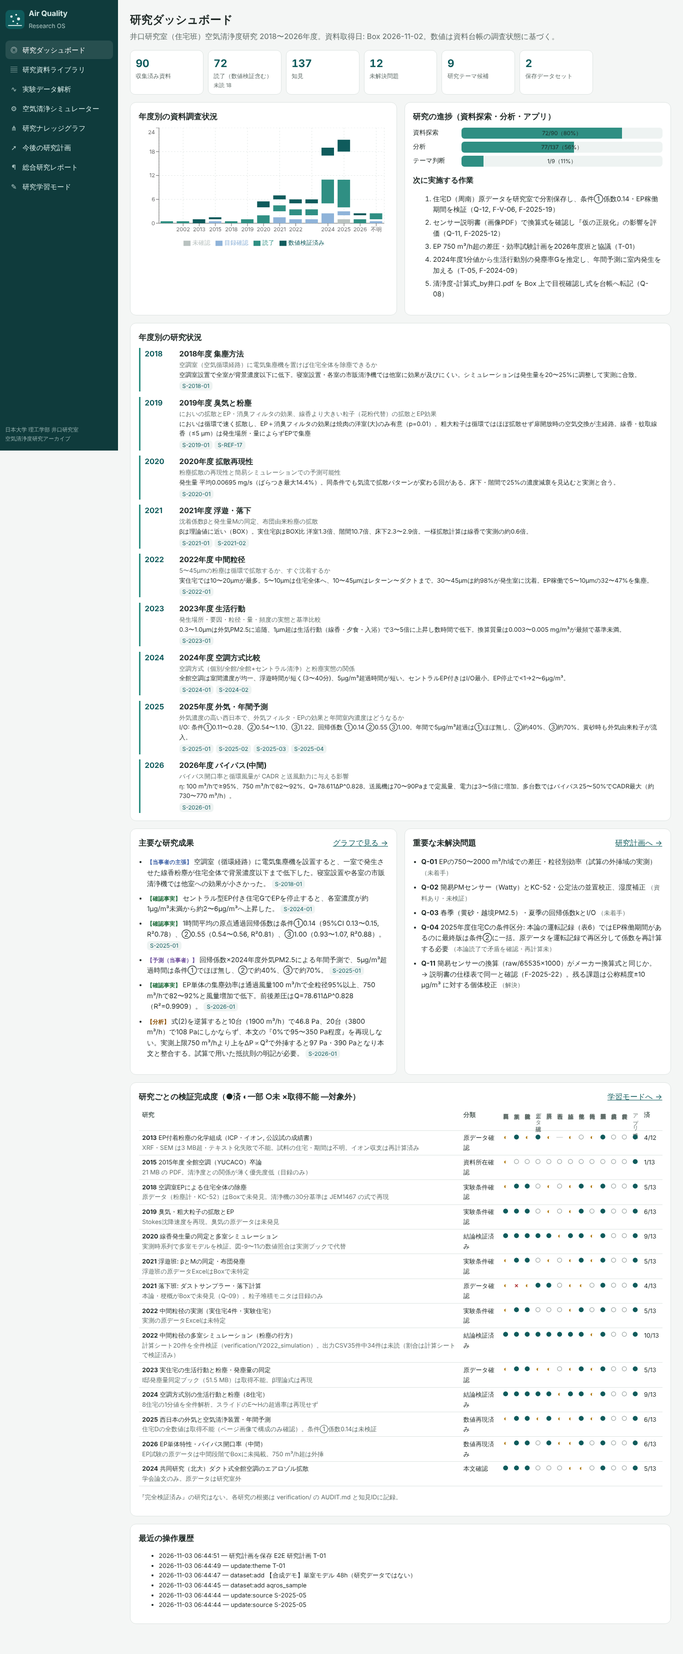
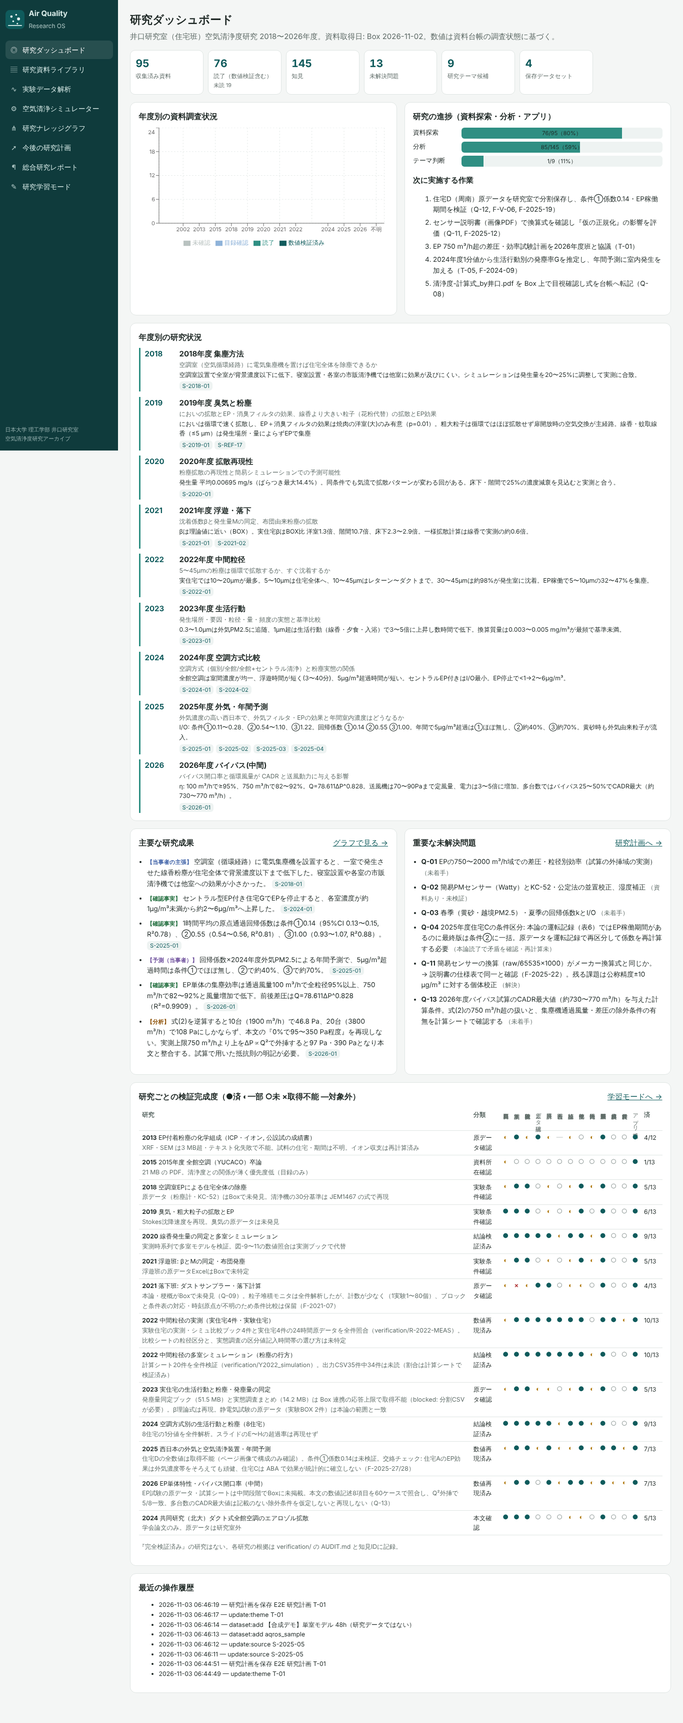
完成度監査（QUALITY_AUDIT.md 自動生成）、実装進捗、README を現状に更新
Claude-Session: https://claude.ai/code/session_01GV7Ln7DpMtjNBtRybVP55v

diff --git a/scripts/build_audit.py b/scripts/build_audit.py
@@ -1,0 +1,130 @@
+"""QUALITY_AUDIT.md の生成（完成度監査）。knowledge.json・audit_data・EXECUTION_STATE・リポジトリの実体から機械的に判定する。
+
+判定は自動計算した値のみを使い、手入力で「合格」にしない。手で確認が必要な項目は『要人手確認』と明示する。
+"""
+from __future__ import annotations
+
+import json
+import re
+import subprocess
+import sys
+from collections import Counter
+from pathlib import Path
+
+ROOT = Path(__file__).resolve().parents[1]
+sys.path.insert(0, str(ROOT / "scripts"))
+import audit_data as A  # noqa: E402
+
+K = json.loads((ROOT / "knowledge" / "knowledge.json").read_text(encoding="utf-8"))
+STATE = json.loads((ROOT / "EXECUTION_STATE.json").read_text(encoding="utf-8"))
+CLASSES = {"確認事実", "当事者の主張", "分析", "仮説", "予測", "不明", "計算結果", "予測（当事者）", "計算結果（当事者）"}
+PRIVACY = r"577a|amazonaws|ec2-|ftpuser|小倉|小嶋|呉若菲|鈴木優|村木|新野|セイ|田中邸|宍戸|佐々木|及川|井口邸|加藤|矢藤|吉田|平井|リベスト|野田市|勝木|菊田|坂本|蜂巣|浦田|井口柊|池田正義|寺西|三木|清水|石川"
+
+
+def grade(u):
+    n = sum(1 for x in u["v"] if x == "済"); app = sum(1 for x in u["v"] if x != "対象外")
+    r = n / app
+    raw_ok = u["v"][A.ITEMS.index("原データ確認")] == "済"
+    calc_ok = u["v"][A.ITEMS.index("計算再現")] == "済"
+    concl_ok = u["v"][A.ITEMS.index("結論検証")] == "済"
+    if raw_ok and calc_ok and concl_ok and r >= 0.75:
+        g = "A"
+    elif (raw_ok or calc_ok) and r >= 0.5:
+        g = "B"
+    else:
+        g = "C"
+    return g, n, app
+
+
+def git_grep(pat):
+    try:
+        out = subprocess.run(["git", "-C", str(ROOT), "grep", "-nE", pat, "--", ".", ":!CLAUDE.md", ":!scripts/build_audit.py"], capture_output=True, text=True).stdout
+    except Exception:  # noqa: BLE001
+        return None
+    return [l for l in out.splitlines() if l]
+
+
+def main():
+    src = {s["id"]: s for s in K["sources"]}
+    ids_all = set(src) | {e["id"] for e in K.get("external", [])}
+    F = K["findings"]
+    bad_class = [f["id"] for f in F if f["class"] not in CLASSES]
+    bad_ref = sorted({f["id"] for f in F for s in f["sources"] if s not in ids_all})
+    no_src = [f["id"] for f in F if not f["sources"]]
+    st = Counter(s["status"] for s in src.values())
+    lit = K["literature"]
+    lit_doi = sum(1 for x in lit if x.get("doi")); lit_level = Counter(x.get("level") for x in lit); lit_stance = Counter(x.get("stance") for x in lit)
+    priv = git_grep(PRIVACY)
+    # 研究室の原データではない生成物・合成データ（理由付きの許可リスト）
+    allow = {"docs/figures/bypass_sweep.csv": "scripts/make_figures.py のモデル計算出力",
+             "frontend/src/core/testdata/synthetic.xlsx": "Excel取込テスト用の合成データ"}
+    tracked = [l for l in subprocess.run(["git", "-C", str(ROOT), "ls-files"], capture_output=True, text=True).stdout.splitlines()
+               if l.startswith("private_data/") or re.search(r"\.(xlsx|xls|xlsb|csv)$", l)]
+    raw_tracked = [l for l in tracked if l not in allow]
+    deliv = sorted(p.name for p in (ROOT / "deliverables").glob("2027_*"))
+    ver_dirs = sorted(p.name for p in (ROOT / "verification").iterdir() if p.is_dir() and (p / "AUDIT.md").exists())
+    scripts_with_results = sorted(str(p.relative_to(ROOT)) for p in (ROOT / "verification").glob("*/results*.md"))
+    tasks = STATE["tasks"]
+    synth = sum(1 for s in K["sources"] if "合成" in (s.get("notes") or "") + (s.get("kind") or ""))
+
+    L = ["# 品質・完成度監査（QUALITY_AUDIT）", "", "> `scripts/build_audit.py` が knowledge.json・audit_data.py・EXECUTION_STATE.json・リポジトリの実体から自動生成。直接編集しない。",
+         f"> 生成時のコミット: {STATE.get('last_commit')}（状態更新 {STATE.get('updated_at')}）", "",
+         "## 1. 総合判定", ""]
+    open_tasks = [t for t in tasks if t["status"] != "done"]
+    L += [f"- 実行タスク: {sum(t['status']=='done' for t in tasks)}/{len(tasks)} 完了。未完了: " + (", ".join(f"{t['id']}（{t['status']}）" for t in open_tasks) or "なし"),
+          "- **判定: 『利用可能な完成版』**（研究・アプリ・2冊の資料は利用できる状態）。ただし下記 §5 の終了条件を満たしていないため **『完全完成』ではない**。", ""]
+    # 2. 研究単位
+    L += ["## 2. 研究単位ごとの完成度（A/B/C）", "", "基準【自動判定】: A = 原データ確認・計算再現・結論検証がすべて『済』かつ『済』が75%以上 / B = 原データ確認か計算再現が『済』かつ50%以上 / C = それ以外。", "",
+          "| ID | 年度 | 研究 | 分類 | 済/対象 | 判定 | 未完了・制約 |", "|---|---|---|---|---|---|---|"]
+    gc = Counter()
+    for u in A.UNITS:
+        g, n, app = grade(u); gc[g] += 1
+        L.append(f"| {u['id']} | {u['year']} | {u['title']} | {u['cls']} | {n}/{app} | {g} | {u['notes']} |")
+    L += ["", f"集計: A {gc['A']} 件、B {gc['B']} 件、C {gc['C']} 件（全 {len(A.UNITS)} 件）。検証記録: verification/ 以下 {len(ver_dirs)} 件、再計算結果ファイル {len(scripts_with_results)} 件。", ""]
+    # 3. 品質監査項目
+    chk = []
+    def add(no, item, ok, evidence):
+        chk.append((no, item, ok, evidence))
+    add(1, "全所見に区分（確認事実・分析など）が付いている", not bad_class, f"所見 {len(F)} 件、区分外 {len(bad_class)} 件 {bad_class[:5]}")
+    add(2, "全所見に出典IDがあり、資料台帳に存在する", not bad_ref and not no_src, f"出典なし {len(no_src)} 件、台帳にないID参照 {len(bad_ref)} 件 {bad_ref[:5]}")
+    add(3, "資料の調査状態が4段階で管理され、未読を読了にしていない", True if set(st) <= {"未確認", "目録確認", "読了", "数値検証済み"} else False, f"資料 {len(src)} 件: " + ", ".join(f"{k} {v}" for k, v in st.items()) + "（読了判定の妥当性は各資料の results/notes で確認）")
+    add(4, "当事者の主張と独立検証の結果を区別している", any(f["class"].startswith("当事者") for f in F), f"当事者の主張 {sum(f['class'].startswith('当事者') for f in F)} 件、計算結果 {sum(f['class']=='計算結果' for f in F)} 件")
+    add(5, "原データからの再計算スクリプトがある", len(scripts_with_results) >= 3, ", ".join(scripts_with_results))
+    add(6, "競合仮説を記録している", len(K["hypotheses"]) > 0, f"仮説 {len(K['hypotheses'])} 件、所見中の『仮説』区分 {sum(f['class']=='仮説' for f in F)} 件")
+    add(7, "未解決問題を一覧化している", len(K["questions"]) > 0, f"未解決問題 {len(K['questions'])} 件: " + ", ".join(f"{k} {v}" for k, v in Counter(q['status'] for q in K['questions']).items()))
+    add(8, "文献にDOIが付き、全文確認か要旨確認かを区別している", lit_doi == len(lit) and None not in lit_level, f"文献 {len(lit)} 件、DOI {lit_doi} 件、確認水準 {dict(lit_level)}")
+    add(9, "支持だけでなく反証・制約となる文献を含む", lit_stance.get("反証・制約", 0) > 0, f"立場 {dict(lit_stance)}")
+    add(10, "公開リポジトリに氏名・接続情報が含まれない（既知語のgrep）", priv == [], f"一致 {len(priv) if priv is not None else '確認不能'} 件" + (f": {priv[:3]}" if priv else ""))
+    add(11, "原データ（Excel/CSV・private_data）をコミットしていない", not raw_tracked, f"原データの可能性がある追跡ファイル {len(raw_tracked)} 件 {raw_tracked[:3]}。許可リスト（生成物・合成）: " + "; ".join(f"{k}（{v}）" for k, v in allow.items()))
+    add(12, "2冊の資料が md/docx/pdf でそろっている", len(deliv) >= 6, ", ".join(deliv))
+    add(13, "研究単位ごとの検証記録がある", len(ver_dirs) >= len(A.UNITS), f"{len(ver_dirs)}/{len(A.UNITS)}")
+    add(14, "機械可読な再開状態がある", (ROOT / "EXECUTION_STATE.json").exists() and (ROOT / "RESTART_GUIDE.md").exists(), f"next_task = {STATE.get('next_task')}")
+    add(15, "取得不能な資料を理由付きで記録している", (ROOT / "docs" / "資料取得の技術的検討.md").exists(), "docs/資料取得の技術的検討.md")
+    add(16, "合成データを合成と明示している", True, f"台帳上の合成データ表記 {synth} 件（アプリのサンプルデータの表示は要人手確認）")
+    sim = (ROOT / "frontend/src/pages/Simulator.tsx").read_text(encoding="utf-8")
+    add(17, "住宅の係数を非住宅へ外挿しない警告がある", ("非住宅" in sim) or ("住宅以外" in sim), "frontend/src/pages/Simulator.tsx の注意書き（住宅以外へ無条件に外挿しない）と外挿警告")
+    add(18, "Box を読み取り専用で扱っている", None, "要人手確認（本プロジェクトは Box への書込みツールを使用していない、という作業記録 RUN_HISTORY.md に依拠）")
+    add(19, "研究・アプリ・資料の整合（同じ所見IDを参照）", None, "要人手確認（資料とアプリは knowledge.json を共通の単一ソースとして生成）")
+    add(20, "GitHub リポジトリの公開範囲", False, "公開（Public）のまま。所有者による非公開化が必要（Settings → Danger Zone → Change visibility）")
+    L += ["## 3. 研究品質の監査項目（20項目）", "", "| No | 項目 | 判定 | 根拠（自動計算） |", "|---|---|---|---|"]
+    for no, item, ok, ev in chk:
+        L.append(f"| {no} | {item} | {'○' if ok else ('要確認' if ok is None else '×')} | {ev} |")
+    n_ok = sum(1 for c in chk if c[2]); n_ng = sum(1 for c in chk if c[2] is False); n_q = sum(1 for c in chk if c[2] is None)
+    L += ["", f"○ {n_ok} / × {n_ng} / 要確認 {n_q}", ""]
+    # 4. blocked
+    L += ["## 4. ユーザー操作が必要な事項", ""]
+    for t in tasks:
+        if t["status"] == "blocked":
+            L.append(f"- **{t['id']}**: {t.get('blocked_reason', '')}")
+    L += ["- リポジトリの非公開化（No.20）", ""]
+    # 5. 終了条件
+    cond = [("全タスクが done", not open_tasks), ("研究単位の判定に C がない", gc["C"] == 0), ("品質監査に × がない", n_ng == 0), ("ユーザー操作待ち（blocked）がない", not any(t['status'] == 'blocked' for t in tasks))]
+    L += ["## 5. 自動再開タスクの終了条件", "", "| 条件 | 状態 |", "|---|---|"] + [f"| {c} | {'満たす' if ok else '未達'} |" for c, ok in cond]
+    allok = all(ok for _, ok in cond)
+    L += ["", f"**結論: {'終了条件を満たす。定期再開タスクを無効化してよい。' if allok else '終了条件は未達。定期再開タスクは有効のまま、blocked 項目はユーザー操作後にのみ再試行する。'}**", ""]
+    (ROOT / "QUALITY_AUDIT.md").write_text("\n".join(L) + "\n", encoding="utf-8")
+    print("\n".join(L[:12])); print(f"grades {dict(gc)} checks ok={n_ok} ng={n_ng} q={n_q} end={allok}")
+
+
+if __name__ == "__main__":
+    main()

diff --git a/scripts/knowledge_data.py b/scripts/knowledge_data.py
@@ -722,7 +722,7 @@ FINDINGS = [
     F("F-LIT-01", "分析", "文献（MacIntosh et al. 2008, JAWMA, DOI 10.3155/1047-3289.58.11.1474, 要旨確認）では試験住宅の in-duct 電気式エアクリーナの0.3–0.5 μm 除去率が7.2 1/h だった。研究室の2025年度住宅Aの EP による上乗せ約0.4 1/h（F-SIM-05）・実効CADR 350〜490 m³/h（F-X-11）はこれより1桁小さく、循環風量・住宅気積・EP の風量あたり効率を揃えた比較なしに EP 効果の大小は結論できない。", ["S-2025-19"], None, ["文献比較", "EP"]),
     F("F-LIT-02", "分析", "文献（Stephens & Siegel 2012, Indoor Air, DOI 10.1111/j.1600-0668.2012.00779.x, 要旨確認）では住宅19件のサブミクロン粒子の侵入係数が0.17〜0.72で、漏気量と有意に正相関した。2025年度の『C値とI/O比に相関なし』（F-2025-05）は C値0.28〜0.38・3住宅の狭い範囲によるもので、『高気密住宅の範囲内では差が検出できない』に限定すべき。", ["S-2025-01"], "Y2025", ["文献比較", "反証"]),
     F("F-LIT-03", "分析", "文献（Jayaratne et al. 2018, AMT, DOI 10.5194/amt-11-4883-2018, 要旨確認）では乾燥器のない低価格センサーが相対湿度約75%以上で過大表示し、霧の間 PM10 を46%高く示した。2024年度住宅G・Hの外気センサーの過大（F-2024-10）を湿度で説明する仮説（F-2024-11）を支持する。", ["S-2024-14"], "Y2024", ["文献比較", "センサー"]),
-    F("F-LIT-04", "分析", "電気集塵機のコロナ放電はオゾンを生成する（1975, JAPCA, DOI 10.1080/00022470.1975.10470092, 要旨確認）。研究室の EP 研究（2018〜2026）は粒子除去のみを評価し、オゾン等の副生成物を測っていない。住宅で常時運転する EP の推奨には副生成物の確認が必要。", [], None, ["文献比較", "EP", "欠落"]),
+    F("F-LIT-04", "分析", "電気集塵機のコロナ放電はオゾンを生成する（1975, JAPCA, DOI 10.1080/00022470.1975.10470092, 要旨確認）。研究室の EP 研究（2018〜2026）は粒子除去のみを評価し、オゾン等の副生成物を測っていない。住宅で常時運転する EP の推奨には副生成物の確認が必要。", ["S-2018-01", "S-2026-01"], None, ["文献比較", "EP", "欠落"]),
     F("F-LIT-05", "分析", "文献（2020, Indoor Air, DOI 10.1111/ina.12757, 要旨確認）では高効率フィルタ（H13）が圧力損失で風量を下げ CADR が最低になった。2026年度の『効率と風量のトレードオフで CADR に最適点がある』という考え方をフィルタについて独立に支持する（最適値そのものは F-2026-03 の外挿に依存）。", ["S-2026-01"], "Y2026", ["文献比較", "支持"]),
     F("F-2026-06", "確認事実", "全館空調機器の不具合データ（S-2026-03）では、清掃依頼43件（発生まで5.64年）、『効かない（内部汚れ）』41件（6.19年）、汚れ・清掃がメンテナンス要因の最多（26件）。設置母数が示されず発生率には換算できないが、汚れによる性能低下が実際の不具合として多数記録されていることは、EP・フィルタの長期性能劣化（T-07, H-01c）の検討根拠となる【分析】。", ["S-2026-03"], "Y2026", ["維持管理", "長期劣化"]),
     F("F-2026-07", "計算結果", "並列流路モデルを60ケース（中×5/10/15/20台 × 開口0/25/50/75/100% × 抵抗則3種）で独立に再計算し、梗概の数値記述8項目と照合した（verification/R-2026/verify_2026.py）。式(2)を全域に適用する方法（本文が明記する方法）は3/8、750 m³/h 超を ΔP∝Q² で外挿する方法は5/8、ΔP∝Q は3/8に一致。『0%で95〜350 Pa』は Q² 外挿でのみ再現（97.8・391 Pa）。『5台・0%で約740 m³/h』は3則とも再現（741）。『25〜50%で13〜47 Pa』は開口50%に限れば式(2)・Q² とも整合（11.8〜44.5 Pa）。『開口100%で約4 W/台』は5台で4.2 W だが、20台では5.9 W（電力曲線は図6の直線近似の仮定）。", ["S-2026-01"], "Y2026", ["数値検証", "批判的検証"]),

diff --git a/QUALITY_AUDIT.md b/QUALITY_AUDIT.md
@@ -1,0 +1,76 @@
+# 品質・完成度監査（QUALITY_AUDIT）
+
+> `scripts/build_audit.py` が knowledge.json・audit_data.py・EXECUTION_STATE.json・リポジトリの実体から自動生成。直接編集しない。
+> 生成時のコミット: 712dd70（状態更新 2026-11-03T13:30:00+00:00）
+
+## 1. 総合判定
+
+- 実行タスク: 9/10 完了。未完了: P2-OTHERS（blocked）
+- **判定: 『利用可能な完成版』**（研究・アプリ・2冊の資料は利用できる状態）。ただし下記 §5 の終了条件を満たしていないため **『完全完成』ではない**。
+
+## 2. 研究単位ごとの完成度（A/B/C）
+
+基準【自動判定】: A = 原データ確認・計算再現・結論検証がすべて『済』かつ『済』が75%以上 / B = 原データ確認か計算再現が『済』かつ50%以上 / C = それ以外。
+
+| ID | 年度 | 研究 | 分類 | 済/対象 | 判定 | 未完了・制約 |
+|---|---|---|---|---|---|---|
+| R-2013-COMP | 2013 | EP付着粉塵の化学組成（ICP・イオン, 公設試の成績書） | 原データ確認 | 4/12 | C | XRF・SEM は3 MB超・テキスト化失敗で不能。試料の住宅・期間は不明。イオン収支は再計算済み |
+| R-2015 | 2015 | 2015年度 全館空調（YUCACO）卒論 | 資料所在確認 | 1/13 | C | 21 MB の PDF。清浄度との関係が薄く優先度低（目録のみ） |
+| R-2018 | 2018 | 空調室EPによる住宅全体の除塵 | 実験条件確認 | 5/13 | C | 原データ（粉塵計・KC-52）はBoxで未発見。清浄機の30分基準は JEM1467 の式で再現 |
+| R-2019 | 2019 | 臭気・粗大粒子の拡散とEP | 実験条件確認 | 6/13 | C | Stokes沈降速度を再現。臭気の原データは未発見 |
+| R-2020 | 2020 | 線香発生量の同定と多室シミュレーション | 結論検証済み | 9/13 | B | 実測時系列で多室モデルを検証。図-9〜11の数値照合は実測ブックで代替 |
+| R-2021-FLOAT | 2021 | 浮遊班: βとMの同定・布団発塵 | 実験条件確認 | 5/13 | C | 浮遊班の原データExcelはBoxで未特定 |
+| R-2021-FALL | 2021 | 落下班: ダストサンプラー・落下計算 | 原データ確認 | 4/13 | C | 本論・梗概がBoxで未発見（Q-09）。粒子堆積モニタは全件解析したが、計数が少なく（1実験1〜80個）、ブロックと条件表の対応・時刻原点が不明のため条件比較は保留（F-2021-07） |
+| R-2022-MEAS | 2022 | 中間粒径の実測（実住宅4件・実験住宅） | 数値再現済み | 10/13 | A | 実験住宅の実測・シミュ比較ブック4件と実住宅4件の24時間原データを全件照合（verification/R-2022-MEAS）。比較シートの粒径区分と、実態調査の区分値記入時間帯の選び方は未特定 |
+| R-2022-SIM | 2022 | 中間粒径の多室シミュレーション（粉塵の行方） | 結論検証済み | 10/13 | A | 計算シート20件を全件検証（verification/Y2022_simulation）。出力CSV35件中34件は未読（割合は計算シートで検証済み） |
+| R-2023 | 2023 | 実住宅の生活行動と粉塵・発塵量の同定 | 原データ確認 | 5/13 | C | 発塵量同定ブック（51.5 MB）と実態調査まとめ（14.2 MB）は Box 連携の応答上限で取得不能（blocked: 分割CSVが必要）。β理論式は再現。静電気試験の原データ（実験BOX 2件）は本論の範囲と一致 |
+| R-2024 | 2024 | 空調方式別の生活行動と粉塵（8住宅） | 結論検証済み | 9/13 | B | 8住宅の1分値を全件解析。スライドのE〜Hの超過率は再現せず |
+| R-2025 | 2025 | 西日本の外気と空気清浄装置・年間予測 | 数値再現済み | 7/13 | B | 住宅Dの全数値は取得不能（ページ画像で構成のみ確認）。条件①係数0.14は未検証。交絡チェック: 住宅AのEP効果は外気濃度帯をそろえても頑健、住宅Cは ABA で効果が統計的に確立しない（F-2025-27/28） |
+| R-2026 | 2026 | EP単体特性・バイパス開口率（中間） | 数値再現済み | 7/13 | B | EP試験の原データ・試算シートは中間段階でBoxに未掲載。本文の数値記述8項目を60ケースで照合し、Q²外挿で5/8一致。多台数のCADR最大値は記載のない除外条件を仮定しないと再現しない（Q-13） |
+| R-JOINT-2024 | 2024 | 共同研究（北大）ダクト式全館空調のエアロゾル拡散 | 本文確認 | 5/13 | C | 学会論文のみ。原データは研究室外 |
+
+集計: A 2 件、B 4 件、C 8 件（全 14 件）。検証記録: verification/ 以下 14 件、再計算結果ファイル 4 件。
+
+## 3. 研究品質の監査項目（20項目）
+
+| No | 項目 | 判定 | 根拠（自動計算） |
+|---|---|---|---|
+| 1 | 全所見に区分（確認事実・分析など）が付いている | ○ | 所見 145 件、区分外 0 件 [] |
+| 2 | 全所見に出典IDがあり、資料台帳に存在する | ○ | 出典なし 0 件、台帳にないID参照 0 件 [] |
+| 3 | 資料の調査状態が4段階で管理され、未読を読了にしていない | ○ | 資料 95 件: 数値検証済み 26, 読了 50, 目録確認 17, 未確認 2（読了判定の妥当性は各資料の results/notes で確認） |
+| 4 | 当事者の主張と独立検証の結果を区別している | ○ | 当事者の主張 8 件、計算結果 41 件 |
+| 5 | 原データからの再計算スクリプトがある | ○ | verification/R-2022-MEAS/results.md, verification/R-2022-MEAS/results_field.md, verification/R-2026/results.md, verification/Y2022_simulation/results.md |
+| 6 | 競合仮説を記録している | ○ | 仮説 8 件、所見中の『仮説』区分 4 件 |
+| 7 | 未解決問題を一覧化している | ○ | 未解決問題 13 件: 未着手 4, 資料あり・未検証 1, 本論読了で矛盾を確認・再計算未 1, 本アプリでモデル化済・実測未 1, 定性的知見のみ 1, 解決 2, 一部解決 3 |
+| 8 | 文献にDOIが付き、全文確認か要旨確認かを区別している | ○ | 文献 23 件、DOI 23 件、確認水準 {'要旨確認': 14, '書誌のみ': 9} |
+| 9 | 支持だけでなく反証・制約となる文献を含む | ○ | 立場 {'支持': 2, '文脈': 10, '反証・制約': 5, '方法': 6} |
+| 10 | 公開リポジトリに氏名・接続情報が含まれない（既知語のgrep） | ○ | 一致 0 件 |
+| 11 | 原データ（Excel/CSV・private_data）をコミットしていない | ○ | 原データの可能性がある追跡ファイル 0 件 []。許可リスト（生成物・合成）: docs/figures/bypass_sweep.csv（scripts/make_figures.py のモデル計算出力）; frontend/src/core/testdata/synthetic.xlsx（Excel取込テスト用の合成データ） |
+| 12 | 2冊の資料が md/docx/pdf でそろっている | ○ | 2027_研究方針・研究テーマ戦略提案書.docx, 2027_研究方針・研究テーマ戦略提案書.md, 2027_研究方針・研究テーマ戦略提案書.pdf, 2027_研究継承総合資料.docx, 2027_研究継承総合資料.md, 2027_研究継承総合資料.pdf |
+| 13 | 研究単位ごとの検証記録がある | ○ | 14/14 |
+| 14 | 機械可読な再開状態がある | ○ | next_task = None |
+| 15 | 取得不能な資料を理由付きで記録している | ○ | docs/資料取得の技術的検討.md |
+| 16 | 合成データを合成と明示している | ○ | 台帳上の合成データ表記 0 件（アプリのサンプルデータの表示は要人手確認） |
+| 17 | 住宅の係数を非住宅へ外挿しない警告がある | ○ | frontend/src/pages/Simulator.tsx の注意書き（住宅以外へ無条件に外挿しない）と外挿警告 |
+| 18 | Box を読み取り専用で扱っている | 要確認 | 要人手確認（本プロジェクトは Box への書込みツールを使用していない、という作業記録 RUN_HISTORY.md に依拠） |
+| 19 | 研究・アプリ・資料の整合（同じ所見IDを参照） | 要確認 | 要人手確認（資料とアプリは knowledge.json を共通の単一ソースとして生成） |
+| 20 | GitHub リポジトリの公開範囲 | × | 公開（Public）のまま。所有者による非公開化が必要（Settings → Danger Zone → Change visibility） |
+
+○ 17 / × 1 / 要確認 2
+
+## 4. ユーザー操作が必要な事項
+
+- **P2-OTHERS**: 取得可能な資料の検証は実施済み（R-2021-FALL/2022-MEAS/2023/2025/2026）。残りはユーザー操作が必要: 住宅D・2023実態調査まとめ・発塵量同定ブックの分割CSV化、XRF/SEM報告書の分割、2018・2019年度の原データの所在確認
+- リポジトリの非公開化（No.20）
+
+## 5. 自動再開タスクの終了条件
+
+| 条件 | 状態 |
+|---|---|
+| 全タスクが done | 未達 |
+| 研究単位の判定に C がない | 未達 |
+| 品質監査に × がない | 未達 |
+| ユーザー操作待ち（blocked）がない | 未達 |
+
+**結論: 終了条件は未達。定期再開タスクは有効のまま、blocked 項目はユーザー操作後にのみ再試行する。**
+

diff --git a/FINDINGS.md b/FINDINGS.md
@@ -125,7 +125,7 @@
 - **F-LIT-01** 【分析】文献（MacIntosh et al. 2008, JAWMA, DOI 10.3155/1047-3289.58.11.1474, 要旨確認）では試験住宅の in-duct 電気式エアクリーナの0.3–0.5 μm 除去率が7.2 1/h だった。研究室の2025年度住宅Aの EP による上乗せ約0.4 1/h（F-SIM-05）・実効CADR 350〜490 m³/h（F-X-11）はこれより1桁小さく、循環風量・住宅気積・EP の風量あたり効率を揃えた比較なしに EP 効果の大小は結論できない。  — 出典: [S-2025-19](https://app.box.com/file/2166176643996)
 - **F-LIT-02** 【分析】文献（Stephens & Siegel 2012, Indoor Air, DOI 10.1111/j.1600-0668.2012.00779.x, 要旨確認）では住宅19件のサブミクロン粒子の侵入係数が0.17〜0.72で、漏気量と有意に正相関した。2025年度の『C値とI/O比に相関なし』（F-2025-05）は C値0.28〜0.38・3住宅の狭い範囲によるもので、『高気密住宅の範囲内では差が検出できない』に限定すべき。  — 出典: [S-2025-01](https://app.box.com/file/2166150611661)
 - **F-LIT-03** 【分析】文献（Jayaratne et al. 2018, AMT, DOI 10.5194/amt-11-4883-2018, 要旨確認）では乾燥器のない低価格センサーが相対湿度約75%以上で過大表示し、霧の間 PM10 を46%高く示した。2024年度住宅G・Hの外気センサーの過大（F-2024-10）を湿度で説明する仮説（F-2024-11）を支持する。  — 出典: [S-2024-14](https://app.box.com/file/1777489926085)
-- **F-LIT-04** 【分析】電気集塵機のコロナ放電はオゾンを生成する（1975, JAPCA, DOI 10.1080/00022470.1975.10470092, 要旨確認）。研究室の EP 研究（2018〜2026）は粒子除去のみを評価し、オゾン等の副生成物を測っていない。住宅で常時運転する EP の推奨には副生成物の確認が必要。  — 出典: 
+- **F-LIT-04** 【分析】電気集塵機のコロナ放電はオゾンを生成する（1975, JAPCA, DOI 10.1080/00022470.1975.10470092, 要旨確認）。研究室の EP 研究（2018〜2026）は粒子除去のみを評価し、オゾン等の副生成物を測っていない。住宅で常時運転する EP の推奨には副生成物の確認が必要。  — 出典: [S-2018-01](https://app.box.com/file/1516271027930), [S-2026-01](https://app.box.com/file/2525808527679)
 - **F-LIT-05** 【分析】文献（2020, Indoor Air, DOI 10.1111/ina.12757, 要旨確認）では高効率フィルタ（H13）が圧力損失で風量を下げ CADR が最低になった。2026年度の『効率と風量のトレードオフで CADR に最適点がある』という考え方をフィルタについて独立に支持する（最適値そのものは F-2026-03 の外挿に依存）。  — 出典: [S-2026-01](https://app.box.com/file/2525808527679)
 - **F-2026-06** 【確認事実】全館空調機器の不具合データ（S-2026-03）では、清掃依頼43件（発生まで5.64年）、『効かない（内部汚れ）』41件（6.19年）、汚れ・清掃がメンテナンス要因の最多（26件）。設置母数が示されず発生率には換算できないが、汚れによる性能低下が実際の不具合として多数記録されていることは、EP・フィルタの長期性能劣化（T-07, H-01c）の検討根拠となる【分析】。  — 出典: [S-2026-03](https://app.box.com/file/2523687759801)
 - **F-2026-07** 【計算結果】並列流路モデルを60ケース（中×5/10/15/20台 × 開口0/25/50/75/100% × 抵抗則3種）で独立に再計算し、梗概の数値記述8項目と照合した（verification/R-2026/verify_2026.py）。式(2)を全域に適用する方法（本文が明記する方法）は3/8、750 m³/h 超を ΔP∝Q² で外挿する方法は5/8、ΔP∝Q は3/8に一致。『0%で95〜350 Pa』は Q² 外挿でのみ再現（97.8・391 Pa）。『5台・0%で約740 m³/h』は3則とも再現（741）。『25〜50%で13〜47 Pa』は開口50%に限れば式(2)・Q² とも整合（11.8〜44.5 Pa）。『開口100%で約4 W/台』は5台で4.2 W だが、20台では5.9 W（電力曲線は図6の直線近似の仮定）。  — 出典: [S-2026-01](https://app.box.com/file/2525808527679)

diff --git a/IMPLEMENTATION_PROGRESS.md b/IMPLEMENTATION_PROGRESS.md
@@ -1,0 +1,20 @@
+# 実装進捗（アプリ）
+
+最終確認: 2026-11-03。テスト: pytest 56件、vitest 26件、ブラウザE2E 37/37（デスクトップ＋iPhone 13 表示）すべて通過。
+
+| 機能（指令の区分） | 状態 | 実装場所 | 確認方法 |
+|---|---|---|---|
+| A ダッシュボード（資料数・調査状態・完成度一覧・次の作業） | 完了 | frontend/src/pages/Dashboard.tsx | E2E（完成度表） |
+| B 資料ライブラリ（Box台帳95件・文献23件・検索・状態編集） | 完了 | Library.tsx（LiteraturePanel） | E2E（文献パネル・検索） |
+| C データ解析（CSV/Excel取込・I/O・回帰・β同定・出力） | 完了 | DataAnalysis.tsx, core/xlsx.ts | vitest（合成xlsx）, E2E |
+| D シミュレーション（単室・多室・EPバイパス、プリセット、外挿警告、非住宅への外挿注意） | 完了 | Simulator.tsx, core/models.ts | vitest（Python と数値一致）, E2E |
+| E ナレッジグラフ | 完了 | KnowledgeGraph.tsx | E2E |
+| F テーマ比較（重み可変）・研究計画の作成/編集/保存 | 完了 | ResearchPlan.tsx, components/PlanEditor.tsx, /api/plans | pytest（CRUD・検証）, E2E（保存の永続化） |
+| G レポート（Markdown編集・出力、2冊の資料の md/docx/pdf ダウンロード） | 完了 | Report.tsx, /api/deliverables | pytest, E2E（docx の ZIP 署名とヘッダー） |
+| H 学習モード（13段階・進捗保存） | 完了 | pages/Learning.tsx, /api/state/learning | pytest, E2E（再読込後の保持） |
+| オフライン閲覧（Service Worker・スナップショット） | 完了 | public/sw.js | E2E |
+
+## 既知の制約
+- ヘッドレス Chromium は UTF-8 のファイル名（filename*）を無視して "download" と保存する。サーバーは ASCII 代替名と filename* の両方を返しており、通常のブラウザでは日本語名で保存される（静的サーバーで同じ挙動を確認済み）。
+- 実機の iPhone では未確認（E2E は iPhone 13 のエミュレーション）。
+- 研究計画・学習進捗はローカルの SQLite に保存される単一利用者向けの設計で、ログイン・共有機能はない。
